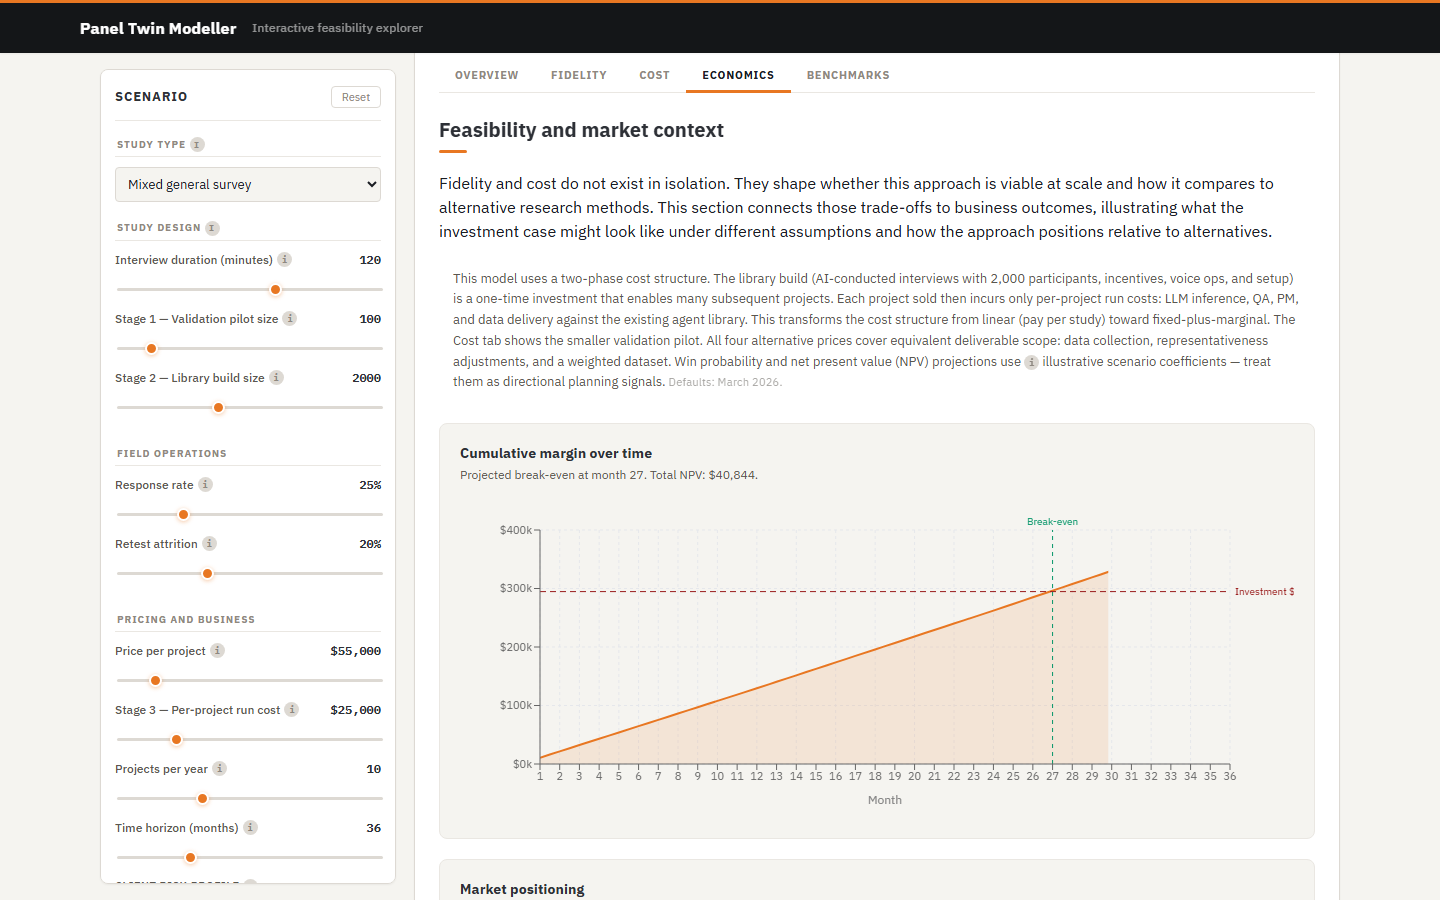
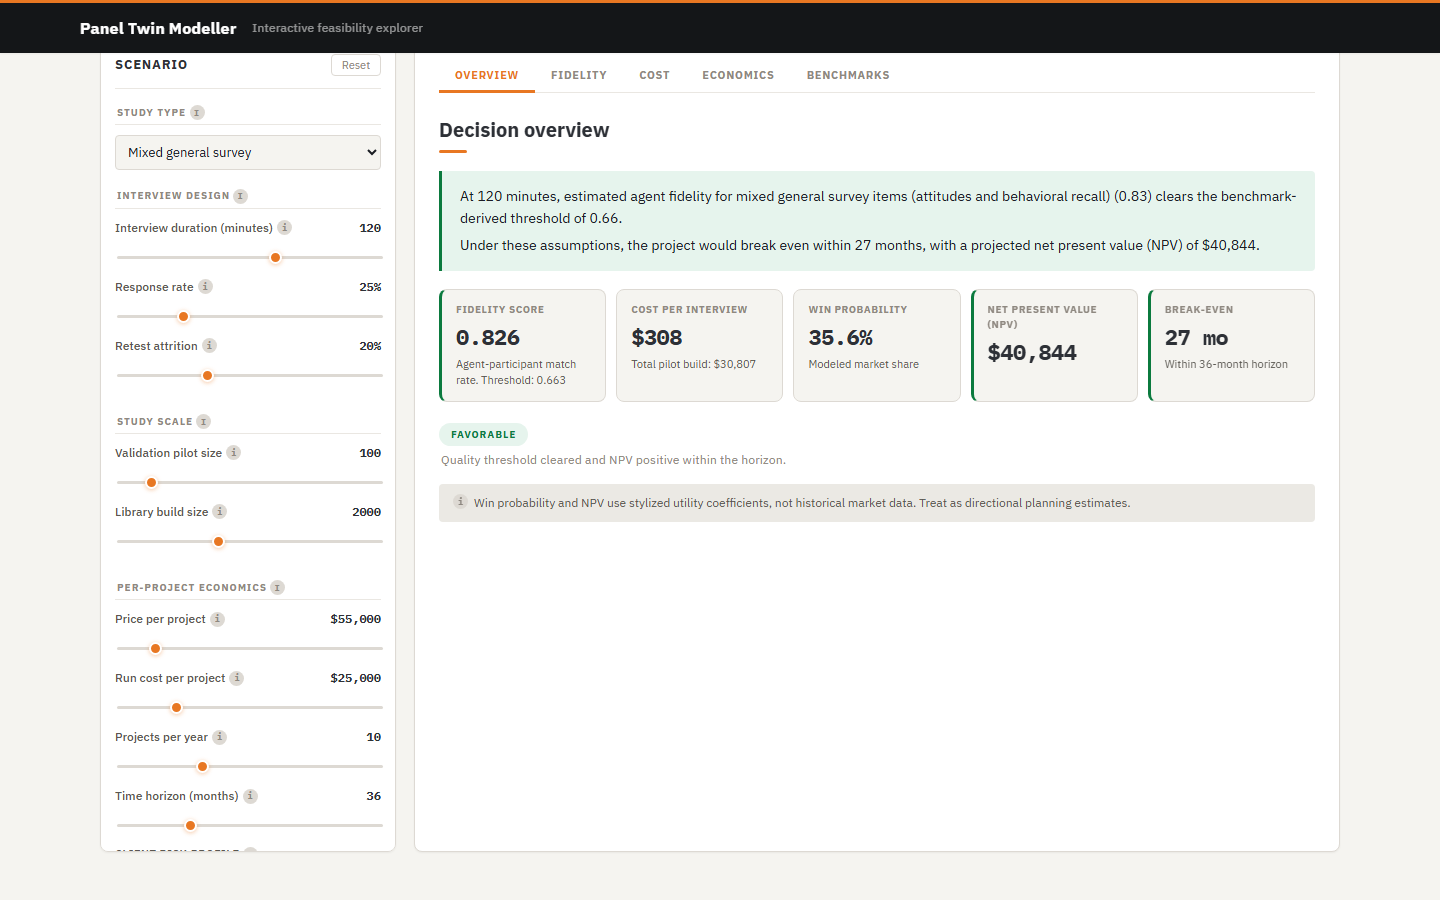
Sidebar reorganization: group by cost destination, not parameter type
Replace the ad-hoc Study design + Field operations + Stage 1/2/3 layout
with four semantically coherent sections that match how a user thinks
about the three spending events in the model.

- Interview design: duration, response rate, retest attrition (shared
  per-participant params that apply at both pilot and library build scale)
- Study scale: validation pilot size (Cost tab) and library build size
  (Economics tab) — clearly labelled for their respective outputs
- Per-project economics: price, run cost, projects/year, horizon, risk
  (all post-library metrics)
- Advanced sections renamed: Per-interview costs, Build and setup costs

Removes Stage 1/2/3 prefixes from individual slider labels (superficial
and non-contiguous); context now lives in each fieldset's tooltip.

Updates README screenshot to reflect new sidebar structure.

diff --git a/docs-app/src/components/ScenarioControls.tsx b/docs-app/src/components/ScenarioControls.tsx
@@ -47,8 +47,8 @@ export function ScenarioControls({
 
       <fieldset className="control-group">
         <legend>
-          Study design{' '}
-          <Tooltip content="This tool models three cost stages. Stage 1: a small validation pilot (Cost tab) to check quality and operations before committing. Stage 2: the full library build — AI-conducted interviews with the target number of participants, creating the synthetic twin library (one-time investment in Economics tab). Stage 3: per-project runs against the existing library at marginal cost (Pricing and business section). Interview duration drives quality and per-participant AI costs at all stages.">
+          Interview design{' '}
+          <Tooltip content="These parameters describe each AI voice interview. They set quality expectations and determine the cost per participant — and since per-participant costs are the same unit whether you are running a small pilot or the full library build, these inputs drive both. Incentives, voice costs, and LLM costs are all per-participant; adjust them in Advanced settings.">
             <span className="info-icon" aria-hidden="true">i</span>
           </Tooltip>
         </legend>
@@ -57,37 +57,15 @@ export function ScenarioControls({
           value={cfg.interview_minutes}
           min={30} max={180} step={5}
           onChange={(v) => update('interview_minutes', v)}
-          tooltip="Length of the AI-conducted voice interview per participant. The Stanford genagents study used ~120-minute interviews. Quality improves logarithmically with duration and directly drives voice and LLM costs. Applies to both the pilot and the full library build."
+          tooltip="Length of the AI-conducted voice interview per participant. The Stanford genagents study used ~120-minute interviews. Quality improves logarithmically with duration and directly drives voice and LLM costs per participant."
         />
-        <Slider
-          label="Stage 1 — Validation pilot size"
-          value={cfg.sampling.pilot_n}
-          min={50} max={500} step={10}
-          onChange={(v) => {
-            update('sampling' as keyof ScenarioConfig, { ...cfg.sampling, pilot_n: v } as never);
-          }}
-          tooltip="Number of participants in the small validation pilot. Run before committing to the full library build. Drives the total shown in the Cost tab. Typically 50–200 participants."
-        />
-        <Slider
-          label="Stage 2 — Library build size"
-          value={cfg.sampling.scaleup_n}
-          min={200} max={5000} step={100}
-          onChange={(v) => {
-            update('sampling' as keyof ScenarioConfig, { ...cfg.sampling, scaleup_n: v } as never);
-          }}
-          tooltip="Number of participants to interview for the full synthetic twin library. This is a one-time investment — once the library is built, subsequent survey projects run against it at marginal cost only (no new interviews). Drives the initial investment line in the Economics tab. A nationally representative U.S. sample typically requires at least 2,000 participants."
-        />
-      </fieldset>
-
-      <fieldset className="control-group">
-        <legend>Field operations</legend>
         <Slider
           label="Response rate"
           value={cfg.cost.response_rate}
           min={0.05} max={0.9} step={0.01}
           onChange={(v) => updateCost('response_rate', Number(v.toFixed(2)))}
           format={pct}
-          tooltip="Fraction of invited panel members who complete the interview. For a 2-hour AI voice study via an established probability panel, 15–30% is a reasonable range. Determines how many panel slots to reserve."
+          tooltip="Fraction of invited panel members who complete the interview. For a 2-hour AI voice study via an established probability panel, 15–30% is a reasonable range. Determines how many panel slots to reserve and affects cost per complete at both pilot and library build scale."
         />
         <Slider
           label="Retest attrition"
@@ -95,34 +73,66 @@ export function ScenarioControls({
           min={0} max={0.6} step={0.01}
           onChange={(v) => updateCost('attrition_rate', Number(v.toFixed(2)))}
           format={pct}
-          tooltip="Fraction of completed participants lost before the retest wave. High attrition weakens the quality estimate grounding and reduces the number of retained agents."
+          tooltip="Fraction of completed participants lost before the retest wave. High attrition weakens the quality estimate grounding and reduces the number of retained agents in the library."
         />
       </fieldset>
 
       <fieldset className="control-group">
-        <legend>Pricing and business</legend>
+        <legend>
+          Study scale{' '}
+          <Tooltip content="Two distinct spending events. The validation pilot is a small study run first to check quality, operations, and assumptions before committing to the full build — its cost appears in the Cost tab. The library build is the full one-time investment: AI interviews with the target number of participants that creates the synthetic twin library — its cost is the initial investment in the Economics tab. Both events use the same per-participant interview design above. Per-interview costs (incentives, panel access) are in Advanced settings.">
+            <span className="info-icon" aria-hidden="true">i</span>
+          </Tooltip>
+        </legend>
+        <Slider
+          label="Validation pilot size"
+          value={cfg.sampling.pilot_n}
+          min={50} max={500} step={10}
+          onChange={(v) => {
+            update('sampling' as keyof ScenarioConfig, { ...cfg.sampling, pilot_n: v } as never);
+          }}
+          tooltip="Number of participants in the validation pilot. Shown in the Cost tab. Run this before committing to the full library build to verify response rates, quality, and cost assumptions. Typically 50–200 participants."
+        />
+        <Slider
+          label="Library build size"
+          value={cfg.sampling.scaleup_n}
+          min={200} max={5000} step={100}
+          onChange={(v) => {
+            update('sampling' as keyof ScenarioConfig, { ...cfg.sampling, scaleup_n: v } as never);
+          }}
+          tooltip="Number of participants to interview for the full synthetic twin library. Shown as the initial investment in the Economics tab. Once built, subsequent survey projects run against this library at marginal cost — no new interviews needed. A nationally representative U.S. sample typically requires at least 2,000 participants."
+        />
+      </fieldset>
+
+      <fieldset className="control-group">
+        <legend>
+          Per-project economics{' '}
+          <Tooltip content="These inputs describe what happens after the library is built. Each subsequent survey project incurs a marginal run cost (LLM inference, QA, PM, data delivery) with no new interviews. Revenue and run cost together determine the gross margin on each project, which the NPV model uses to project break-even and net present value.">
+            <span className="info-icon" aria-hidden="true">i</span>
+          </Tooltip>
+        </legend>
         <Slider
           label="Price per project"
           value={cfg.revenue.price_per_project}
           min={20000} max={300000} step={5000}
           onChange={(v) => updateRevenue('price_per_project', v)}
           format={money}
-          tooltip="Revenue per project. Covers full-service delivery: data collection, agent construction, representativeness weighting, and a weighted dataset with crosstabs. Does not include custom analysis or reporting."
+          tooltip="Revenue per project delivered against the existing library. Covers full-service delivery: agent querying, representativeness weighting, and a weighted dataset with crosstabs. Does not include custom analysis or reporting."
         />
         <Slider
-          label="Stage 3 — Per-project run cost"
+          label="Run cost per project"
           value={cfg.revenue.per_project_run_cost}
           min={5000} max={100000} step={1000}
           onChange={(v) => updateRevenue('per_project_run_cost', v)}
           format={money}
-          tooltip="Marginal cost of running one survey project against the existing twin library (Stage 3 — after the library is built). Covers LLM inference, per-project QA, PM, and data delivery. No new interviews or incentives — those are the one-time Stage 2 library build cost. Typically $20,000–$30,000 per project."
+          tooltip="Marginal cost of running one survey project against the existing library. Covers LLM inference, per-project QA, PM, and data delivery. No new interviews or participant incentives — those are part of the library build. Typically $20,000–$30,000 per project."
         />
         <Slider
           label="Projects per year"
           value={cfg.revenue.projects_per_year}
           min={1} max={30} step={1}
           onChange={(v) => updateRevenue('projects_per_year', v)}
-          tooltip="Expected number of projects per year. Drives total revenue in the NPV model."
+          tooltip="Expected number of projects per year once the library is operational. Drives total revenue in the NPV model."
         />
         <Slider
           label="Time horizon (months)"
@@ -155,26 +165,26 @@ export function ScenarioControls({
 
         <fieldset className="control-group">
           <legend>
-            Participant costs{' '}
-            <Tooltip content="This model assumes the panel provides participant access at no per-invite cost, while incentives are paid directly by the project operator. This is the correct structure for non-standard protocols (2-hour AI voice interviews) where probability panels do not bundle incentives into a flat per-complete rate, unlike standard omnibus surveys.">
+            Per-interview costs{' '}
+            <Tooltip content="Costs incurred per participant interviewed. These apply at both the validation pilot and the library build — the total scales with the number of participants in each. For non-standard 2-hour AI voice protocols, probability panels typically do not bundle incentives into a flat per-complete rate, so incentives are paid separately by the project operator.">
               <span className="info-icon" aria-hidden="true">i</span>
             </Tooltip>
           </legend>
           <Slider
-            label="Phase 1 incentive"
+            label="Interview incentive"
             value={cfg.cost.base_incentive_phase1}
             min={10} max={200} step={5}
             onChange={(v) => updateCost('base_incentive_phase1', v)}
             format={money}
-            tooltip="Incentive paid per participant for the initial interview. Typically $40–$100 for a ~2-hour AI voice interview."
+            tooltip="Incentive paid per participant for the initial AI voice interview. Typically $40–$100 for a ~2-hour session."
           />
           <Slider
-            label="Phase 2 incentive (retest)"
+            label="Retest incentive"
             value={cfg.cost.base_incentive_phase2}
             min={5} max={100} step={5}
             onChange={(v) => updateCost('base_incentive_phase2', v)}
             format={money}
-            tooltip="Incentive for the retest wave. Usually lower than Phase 1 since the session is shorter."
+            tooltip="Incentive for the retest wave used to validate agent fidelity. Usually lower than the initial interview incentive since the session is shorter."
           />
           <Slider
             label="Cost per invite"
@@ -188,8 +198,8 @@ export function ScenarioControls({
 
         <fieldset className="control-group">
           <legend>
-            Setup and labor{' '}
-            <Tooltip content="Total staff cost for the study. Enter in dollars — include all applicable roles (PM, protocol design, engineering, QA, IRB compliance) at whatever rate structure your organization uses. Overhead below covers indirect costs on top of non-labor expenses; set it to 0 if your staff figure is already fully loaded.">
+            Build and setup costs{' '}
+            <Tooltip content="Fixed costs incurred once per study phase — not per participant. Staff cost covers all roles involved in designing, building, and running the study (PM, protocol design, engineering, QA, IRB compliance). Overhead applies to non-labor direct costs only; set to 0 if your staff figure is already fully loaded. Other upfront investment covers any additional one-time costs such as infrastructure, legal review, or partnership setup.">
               <span className="info-icon" aria-hidden="true">i</span>
             </Tooltip>
           </legend>
@@ -199,7 +209,7 @@ export function ScenarioControls({
             min={0} max={150000} step={1000}
             onChange={(v) => updateCost('total_labor_cost', v)}
             format={money}
-            tooltip="Your total estimated staff cost for the study — include all applicable roles such as PM, protocol design, engineering, QA, and IRB compliance. Enter as a lump dollar amount at your organization's rates."
+            tooltip="Your total estimated staff cost for the study — PM, protocol design, engineering, QA, and IRB compliance combined. Enter as a lump dollar amount at your organization's rates."
           />
           <Slider
             label="Indirect / overhead rate"
@@ -207,7 +217,7 @@ export function ScenarioControls({
             min={0} max={0.4} step={0.01}
             onChange={(v) => updateCost('overhead_rate', Number(v.toFixed(2)))}
             format={pct}
-            tooltip="Applied to non-labor direct costs (incentives, voice ops, LLM, post-processing) to cover facilities, admin, and organizational indirect costs. Set to 0 if your staff cost figure is already fully loaded."
+            tooltip="Applied to non-labor direct costs (incentives, voice ops, LLM, post-processing). Set to 0 if your staff cost figure is already fully loaded with overhead."
           />
           <Slider
             label="Other upfront investment"
@@ -215,7 +225,7 @@ export function ScenarioControls({
             min={0} max={1000000} step={5000}
             onChange={(v) => updateRevenue('other_initial_investment', v)}
             format={money}
-            tooltip="Additional upfront costs beyond per-study setup (e.g., infrastructure build, legal review, partnership setup). Added to the total investment in NPV and break-even calculations."
+            tooltip="Additional one-time costs beyond the per-study setup (e.g., infrastructure build, legal review, partnership agreements). Added to the total investment in NPV and break-even calculations."
           />
         </fieldset>
 
